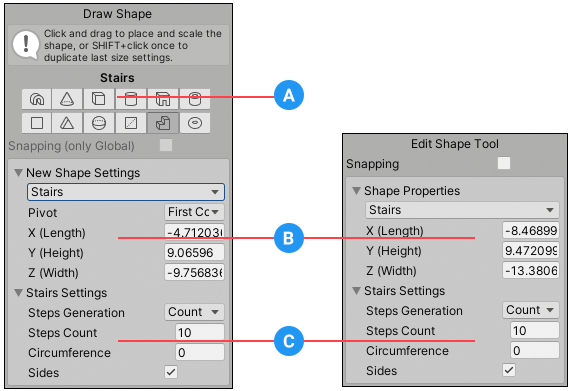
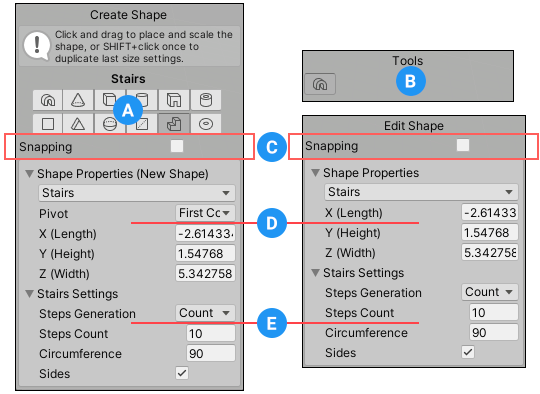
UNI-11308: Edits to Shape tool docs

diff --git a/Documentation~/shape-tool.md b/Documentation~/shape-tool.md
@@ -1,39 +1,41 @@
 # ![Shape Tool icon](images/icons/Panel_Shapes.png) Shape tool
 
-Use the Shape tool to [create new ProBuilder meshes](workflow-create-predefined.md) based on common primitive shapes, such as cylinders, arches, and stairs. When you activate the Shape tool to create a new shape, the **Draw Shape** panel appears in the bottom of the Scene view. You can either draw in the Scene view or set the properties directly in the **Draw Shape** panel to define a bounding box that will hold the new shape. You can also customize any shape-specific settings, and then either exit the tool or create another new shape. 
+Use the Shape tool to [create new ProBuilder Meshes](workflow-create-predefined.md) based on common primitive shapes, such as cylinders, arches, and stairs. When you activate the Shape tool to create a new shape, the **Create Shape** panel appears in the bottom of the Scene view. You can either draw in the Scene view or set the properties directly in the **Create Shape** panel to define a bounding box that will hold the new shape. You can also customize any shape-specific settings, and then either exit the tool or create another new shape. 
 
-> **Tip**: After you create a new shape and exit the tool, you can redefine the bounding box, switch primitive shapes, and change the shape-specific settings when you select the Edit Shape icon ![Edit Shape icon](images/icons/tool-arch.png) from the **Tools** panel. If you made any modifications to the mesh topology (such as [splitting vertices](Vert_Split.md), [connecting edges](Edge_Connect.md), or [extruding faces](Face_Extrude.md)), you must reset the shape to remove all manual changes before you can proceed.
+> **Tip**: After you create a new shape and exit the tool, you can redefine the bounding box, switch primitive shapes, and change the shape-specific settings when you select the Edit Shape icon ![Edit Shape icon](images/icons/tool-arch.png) from the **Tools** panel. If you made any modifications to the Mesh topology (such as [splitting vertices](Vert_Split.md), [connecting edges](Edge_Connect.md), or [extruding faces](Face_Extrude.md)), you must reset the shape to remove all manual changes before you can proceed.
 
-![When you create a new shape, the Draw Shape properties appear. When you edit an existing shape, the Edit Shape properties appear.](images/shape-tool.png) 
+![When you create a new shape, the Create Shape properties appear. When you edit an existing shape, the Edit Shape properties appear.](images/shape-tool.png)
 
-**(A)** Shape icons let you switch the shape's primitive when you are drawing a new shape.
+**(A)** Shape icons let you choose the shape's primitive when you are drawing a new shape.
 
-Enable **Snapping** to align the bounding box to [Unity's grid](https://docs.unity3d.com/Manual/GridSnapping.html) while you are drawing the bounding box's dimensions in the Scene view. This is only available when your [gizmo handle](https://docs.unity3d.com/Manual/PositioningGameObjects.html#GizmoHandlePositions) is set to Global.
+**(B)** The **Tools** panel displays the Edit Shape icon ![Edit Shape icon](images/icons/tool-arch.png) when you have a Shape Mesh selected. You can toggle this icon to turn the editing mode on and off.
 
-**(B)** The **Shape Properties** section lets you select a new shape primitive, define the size of the bounding box, and specify whether to place the pivot at the corner or in the middle of the bounding box when you are drawing a new shape. For details, see [Choosing the shape and size](#ShapeProperties).
+**(C)** The **Snapping** option only appears when you use ProBuilder inside a version of Unity prior to 2021.1. It enables auto-snapping for the Shape tool. For more information, see [Snapping](#Snapping).
 
-**(C)** The **&lt;Shape&gt; settings** section lets you customize the new shape with properties that are specific to each shape. For example, you can change the number of sides (faces) for both cylinders and cones, but for cylinders you can also set the smoothing group and set segment heights for the sides. For details, see [Customizing specific shapes](#ShapeSpecificSettings).
+**(D)** The **Shape Properties** section lets you switch to a new shape primitive and define the size of the bounding box. When you are drawing a new shape, the **Pivot** property lets you specify whether to place the pivot at the corner or in the middle of the bounding box. For details, see [Choosing the shape and size](#ShapeProperties).
+
+**(E)** The **&lt;Shape&gt; settings** section lets you customize the new shape with properties that are specific to each shape. For example, you can change the number of sides (faces) for both cylinders and cones, but for cylinders you can also set the smoothing group and set segment heights for the sides. For details, see [Customizing specific shapes](#ShapeSpecificSettings).
 
 
 
 <a name="ShapeProperties"></a>
 ## Choosing the shape and size  
 
-The properties under the **Shape Properties** section let you choose a shape primitive and define the parameters of the bounding box in which ProBuilder will draw the shape. 
+The properties under the **Shape Properties** section let you choose a shape primitive and define the parameters of the bounding box in which ProBuilder will draw the shape.
 
 
 | **Property:**        | **Description:** |
 | -------------------- | ---------------- |
 | Shape drop-down menu |       Select the shape primitive you want to create. For details, see [Customizing specific shapes](#ShapeSpecificSettings). |
-| **Pivot** | Select whether you want ProBuilder to create the mesh's pivot handle in the **First Corner** of the shape or in its **Center**.<br /><br />**Note**: This property is only available when you are creating the shape. |
+| **Pivot** | Select whether you want ProBuilder to create the Mesh's pivot handle in the **First Corner** of the shape's bounding box or in its **Center**. The "first corner" is where you first clicked in the Scene view to define the bounding box.<br /><br />**Note**: This property is only available when you are creating the shape. |
 | **X (Length)**<br /> **Y (Height)** <br />**Z (Width)** | You can define the bounding box's size with these properties on every shape. When you select a different shape primitive or change any of these properties, ProBuilder automatically transforms the shape to fit the dimensions of the bounding box. |
 
 
 
 
 
-
 <a name="ShapeSpecificSettings"></a>
+
 ## Customizing specific shapes
 
 The following sections contain information about each shape primitive, including a list of any shape-specific properties available:
@@ -42,9 +44,20 @@ The following sections contain information about each shape primitive, including
 |--|--|
 | ![Arch icon](images/icons/tool-arch.png) [Arch](Arch.md) shape primitive<br />![Cone icon](images/icons/tool-cone.png) [Cone](Cone.md) shape primitive<br />![Cube icon](images/icons/tool-cube.png) [Cube](Cube.md) shape primitive<br />![Cylinder icon](images/icons/tool-cylinder.png) [Cylinder](Cylinder.md) shape primitive<br />![Door icon](images/icons/tool-door.png) [Door](Door.md) shape primitive<br />![Pipe icon](images/icons/tool-pipe.png) [Pipe](Pipe.md) shape primitive | ![Plane icon](images/icons/tool-plane.png) [Plane](Plane.md) shape primitive<br />![Prism icon](images/icons/tool-prism.png) [Prism](Prism.md) shape primitive<br />![Sphere icon](images/icons/tool-sphere.png) [Sphere](Sphere.md) shape primitive<br />![Sprite icon](images/icons/tool-sprite.png) [Sprite](Sprite.md) shape primitive<br />![Stairs icon](images/icons/tool-stairs.png) [Stairs](Stair.md) shape primitive<br />![Torus icon](images/icons/tool-torus.png) [Torus](Torus.md) shape primitive |
 
-ProBuilder meshes are similar to other GameObjects in Unity in terms of how they interact with other GameObjects and respond to Physics in the Scene. However, you can use [ProBuilder editing features](workflow-edit) to customize and deform the mesh topology after you create them. 
+ProBuilder Meshes are similar to other GameObjects in Unity in terms of how they interact with other GameObjects and respond to Physics in the Scene. However, you can use [ProBuilder editing features](workflow-edit) to customize and deform the Mesh topology after you create them. 
 
 
 
+<a name="Snapping"></a>
 
+## Snapping
+
+To set a more accurate size, snap the bounding box to [Unity's grid](https://docs.unity3d.com/Manual/GridSnapping.html) while you draw or move the preview shape in the Scene view. To do this, enable auto-snapping with the Shape tool by using one of the following methods that matches the version of the Editor you are using:
+
+* **Version 2021.1 and later**: [Activate Unity auto-snapping](https://docs.unity3d.com/Manual/GridSnapping.html#grid-snap) in the Editor. The **Snapping** option is not available because ProBuilder uses the Editor's auto-snapping setting.
+* **Versions 2019.4 through 2020.3**: Enable the **Snapping** option. ProBuilder ignores Unity's auto-snapping setting in these versions of the Unity Editor.
+
+> **Note**: Auto-snapping is only available when your [gizmo handle](https://docs.unity3d.com/Manual/PositioningGameObjects.html#GizmoHandlePositions) is set to **Global** in any version of Unity.
+
+Regardless of whether auto-snapping is enabled, you can hold the **Ctrl/Cmd** key while drawing or positioning the new shape to move by increments. To set the size of these increments, use the **Increment Snap** property on the [Grid and Snap](https://docs.unity3d.com/Manual/GridSnapping.html#grid-and-snap) window.
 

diff --git a/Documentation~/workflow-create-predefined.md b/Documentation~/workflow-create-predefined.md
@@ -1,35 +1,44 @@
 # Creating a pre-defined ProBuilder shape
 
+Use the Shape tool to create a ProBuilder Mesh from a predefined shape primitive. ProBuilder builds these Mesh shapes inside a bounding box that you define:
+
+![Previews of various shapes inside the same bounding box](images/shapes-bboxes.png)
+
+The bounding box defines the size of each shape primitive using x, y, and z values relative to the "first corner" of the box: that is, the first click you make in the Scene view. If you switch between shape primitives when drawing or editing a shape, ProBuilder instantly adjusts the dimensions of the shape to fit within the bounding box.
+
+To define the bounding box, you can either draw it in the Scene view or set the dimensions on the **Create Shape** panel and then click in the Scene view to tell ProBuilder where you want to place the new shape. ProBuilder always builds the new shape on top of any existing Mesh in the Scene or, if there is no Mesh under your mouse, on the plane defined in the [settings for Unity's Grid snapping](https://docs.unity3d.com/Manual/GridSnapping.html).
+
 To create a Mesh from a predefined shape:  
 
 1. Open the ProBuilder window (in Unity's top menu: **Tools** > **ProBuilder window**).
 
   The [Edit Mode toolbar](overview-ui.md#edit-mode-toolbar) and the [ProBuilder toolbar](toolbar.md) appear.
 
-2. From the ProBuilder toolbar, click the **New Shape** (![Shape Tool icon](images/icons/Panel_Shapes.png)) tool. The [Draw Shape](shape-tool.md) panel appears in the bottom of the Scene view and in [Text mode](customizing.md#text-vs-icon-mode), the **New Shape** button is highlighted.
+2. From the ProBuilder toolbar, click the **New Shape** (![Shape Tool icon](images/icons/Panel_Shapes.png)) tool. The [Create Shape](shape-tool.md) panel appears in the bottom of the Scene view and the **New Shape** text button is highlighted.
 
-  > **Tip:** You can also use the **Ctrl/Cmd+Shift+K** hotkey to activate the Shape tool and leave the panel open, or use the menu (**Tools** > **ProBuilder** > **Editors** > **Open Shape Editor Menu Item**).
+  > **Tip:** You can also use the **Ctrl/Cmd+Shift+K** hotkey to activate the Shape tool and leave the panel open, or use the menu (**Tools** > **ProBuilder** > **Editors** > **New Shape**).
 
-  <span style="color:blue">**@DEV**: When you use the **Ctrl/Cmd+Shift+K** hotkey to activate the Shape tool, the panel stays open but the tool doesn't seem to still be active. If I activate the Edit Shape tool and do some stuff and then click the icon again to exit, the Draw Shape panel reappears. Switching back and forth between the create and edit states can also lead to tons of errors when the Shape panel is still visible, but it's hard to reproduce the error. </span>
+3. From the top of the **Create Shape** panel, choose the icon that matches the shape you'd like to create. Any shape-specific properties appear under the **&lt;Shape&gt; Settings** section at the bottom.
 
-3. Choose the shape you'd like to create either from the shape icons or the drop-down menu. Any shape-specific properties appear under the **&lt;Shape&gt; Settings** section at the bottom.
+4. Set the shape-specific options (width, height, radius, number of stairs) according to the type of shape. For example, the [Stairs](Stair.md) shape lets you customize the height of the steps, how curved to make them, and whether to create faces for the sides.
 
-4. Set the shape-specific options (width, height, radius, number of stairs) according to the type of shape. For example, the [Stairs](Stair.md) shape lets you customize the height of the steps, how curved to make them, and whether to create faces for the sides. 
+  ![Preview of the stairs inside the bounding box](images/Example_ShapeToolsWithCurvedStair2.png)
 
-	![Preview of the stairs inside the bounding box](images/Example_ShapeToolsWithCurvedStair2.png) 
+5. While the Shape tool is active, you can't use the transform tools, but you can use the camera to orbit around the new shape and zoom in and out.
 
-5. While the Shape tool is active, you cannot use the transform tools, but you can use the camera to orbit around the new shape and zoom in and out. 
+6. In the Scene view, click and hold the left mouse button to draw the base of the bounding box (along the x-axis and the z-axis) and then release the mouse button to validate the base. Move the mouse up (or down) along the y-axis to draw the height, and then click to finalize the new Mesh.
 
-6. In the Scene view, click and hold as you move to draw the base of the bounding box (along the x-axis and the z-axis) and then, if you are creating a 3D shape, move up (without letting go) along the y-axis to draw the height. As soon as you let go, ProBuilder creates the new mesh.
+  > **Tip**: Alternatively, you can set all the properties on the **Create Shape** panel, including the bounding-box dimensions, and then hover over the Scene view while holding Shift to see a preview of the Mesh. When you are satisfied with how it looks and where it appears in the scene, click in the Scene view to finish creating the new Mesh.
+  >
+  > **Note**: If you draw the shape on an axis-aligned plane, enable auto-snapping to set a more accurate size on the defined shape than drawing freehand. Alternatively, you can move the shape by increments defined by the [Increment Snap](https://docs.unity3d.com/Manual/GridSnapping.html#grid-and-snap) value instead. For more information, see [Snapping](shape-tool.md#Snapping).
 
-	> **Tip**: Alternatively, you can set all the properties on the **Draw Shape** panel, including the bounding-box dimensions, and then hover over the Scene view while holding Shift to see a preview of the mesh. When you are satisfied with how it looks and where it appears in the scene, click in the Scene view to finish creating the new mesh.
+7. To modify the last shape you created, you can change the properties on the **Create Shape** panel.
 
-7. To create copies of the new mesh you defined, hold Shift to see a preview of the mesh while moving in the Scene view, and then click to build the mesh copy at that spot. You can do this as many times as you like until you exit the tool.
+8. To create copies of the last shape you created, hold Shift to see a preview of the Mesh while moving in the Scene view, and then click to build the Mesh copy at that spot. You can do this as many times as you like until you exit the tool.
 
-8. To exit the tool, click the **New Shape** button or select Esc. 
+9. To exit the tool, click the **New Shape** button again or select Esc.
 
-	**Note**: If you decide later that you want to switch primitive shapes, change the size of the bounding box, or modify any of the shape-specific properties, select the Edit Shape icon ![Edit Shape icon](images/icons/tool-arch.png) from the **Tools** panel. 
+  **Note**: If you decide later that you want to switch primitive shapes, change the size of the bounding box, or modify any of the shape-specific properties, select the Edit Shape icon ![Edit Shape icon](images/icons/tool-arch.png) from the **Tools** panel.
 
 
-Now that you have created a Mesh shape, you can use any of the [ProBuilder editing tools](workflow-edit.md) to fine-tune or customize that shape further. For example, you can build a plain cube and then use the **Extrude Face** and **Delete Face** tools to create windows and doorways to make a house.
-
+After you create a Mesh shape, you can use any of the [ProBuilder editing tools](workflow-edit.md) to fine-tune or customize that shape further. For example, you can build a plain cube and then use the **Extrude Face** and **Delete Face** tools to create windows and doorways to make a house.

diff --git a/Documentation~/cut-tool.md b/Documentation~/cut-tool.md
@@ -1,36 +1,38 @@
 # ![Cut Tool icon](images/icons/Cut_Tool.png) Cut tool
 
-Use the Cut tool to easily subdivide mesh faces with precision. To cut out a shape on a mesh, you activate the Cut tool which lets you define the cutout shape with points. The cutout shape becomes a new face on the mesh.
+Use the Cut tool to easily subdivide Mesh faces with precision. To cut out a shape on a Mesh, you activate the Cut tool which lets you define the cutout shape with points. The cutout shape becomes a new face on the Mesh.
 
-To create a new face on an existing mesh face:
+To create a new face on an existing Mesh face:
 
 1. Open the ProBuilder window (in Unity's top menu: **Tools** > **ProBuilder window**).
 
-	The [Edit Mode toolbar](overview-ui.md#edit-mode-toolbar) and the [ProBuilder toolbar](toolbar.md) appear. 
+	The [Edit Mode toolbar](overview-ui.md#edit-mode-toolbar) and the [ProBuilder toolbar](toolbar.md) appear.
 
 1. Switch to one of the element [editing modes](modes.md).
 
-2. In the ProBuilder toolbar, click **Cut**. The **Cut Tool** panel appears at the bottom of the Scene view. If the ProBuilder toolbar is using [Text mode](customizing.md#text-vs-icon-mode), the button text background becomes red.
+2. In the ProBuilder toolbar, click the **Cut Tool** button. The **Cut Settings** panel appears at the bottom of the Scene view with a **Complete** button and a **Cancel** button. If the ProBuilder toolbar is using [Text mode](customizing.md#text-vs-icon-mode), the button text background becomes red.
 
-3. To control how close to any nearby edges you can place, use the options on the [Cut Tool panel](#cut-tool_panel).
+3. To control snapping to nearby edges and vertices, use the options on the [Cut Settings panel](#cut-tool_panel).
 
-5. Click on the mesh face where you want the vertices for the new face to be. ProBuilder creates the cutout shape based on the edges you draw with these points. For example, you can specify three points on the mesh to define a triangular shape and the fourth to close it:
+5. Click on the Mesh face where you want the vertices for the new face to be. ProBuilder creates the cutout shape based on the edges you draw with these points. For example, you can specify three points on the Mesh to define a triangular shape and the fourth to close it:
 
-  ![Example of a triangular cutout on a face](images/cut-tool-example.png)
+	![Example of a triangular cutout on a face](images/cut-tool-example.png)
 
   > **Tip**: ProBuilder displays red edges as a visual warning if your points make an invalid edge or face. When this happens, undo adding each point until all the edges become blue again.
 
-  As soon as you return to the first point and click it again (such as the fourth point in the triangle example), the cut is complete and you can either exit the tool or start another cut. 
+	As soon as you return to the first point and click it again (such as the fourth point in the triangle example), the cut is complete and the new face appears selected in the Scene view. Now you can either exit the tool or start another cut.
 
-6. To start another cut, click the **Cut** button. The new face appears selected in the Scene view and the **Cut Tool** panel now displays a **Start** button.
+	**Note**: If nothing happened when you returned to the first point and clicked it again or clicked the **Complete** button, it is probably because the points you defined do not create a valid edge or face. For example, if the tool detected only one point, that does not make a valid edge. You can define more points, undo the previous points, or click the **Cancel** button to cancel the operation and start again.
 
-  **Note**: If you click the **Cut** button and nothing happens, it is probably because the points you defined do not create a valid edge or face. For example, if the tool detected only one point, that does not make a valid edge. You can define more points or exit the Cut tool to cancel the operation.
+6. To start another cut, click the **Start** button. The **Cut Settings** panel displays a **Complete** button and a **Cancel** button again.
 
-7. If you want to cut out another face on the same mesh, click the **Start** button.
+7. To exit the Cut tool, you can:
 
-8. To exit the Cut tool, select the Esc key or click **Cut Tool** on the ProBuilder toolbar.
+	* Click the **Quit** button on the **Cut Settings** panel.
+	* Select the Esc key.
+	* Click the **Cut Tool** button on the ProBuilder toolbar again.
 
-	**Tip**: When you create a new face, the Cut tool creates extra edges in order to strengthen the geometry. Avoid merging the surrounding faces to remove the extra edges, because this could result in degenerated faces and broken geometry. 
+	**Tip**: When you create a new face, the Cut tool creates extra edges in order to strengthen the geometry. Avoid merging the surrounding faces to remove the extra edges, because this could result in degenerated faces and broken geometry.
 
 	![After you cut a face, extra edges secure the new face's integrity. Removing those images makes the new face unstable](images/cut-tool-nomerge.png)
 
@@ -38,17 +40,20 @@ To create a new face on an existing mesh face:
 
 <a name="cut-tool_panel"></a>
 
-## Cut Tool panel
+## Cut Settings panel
 
 When ProBuilder enters Cut mode, the following panel appears at the bottom of the Scene view:
 
-![Extra options for the Cut Tool](images/Cut_Tool-panel.png) 
+![Extra options for the Cut Tool](images/Cut_Tool-panel.png)
 
 Enable the **Snap to existing edges and vertices** option to snap the points you draw on the target face to any nearby edges and vertices. This makes it easier to place points on the edges or vertices of the face.
 
 When snapping is enabled, the **Snapping distance** defines what happens as you approach a face border. By default, if you click within 0.1 units of an edge or vertex, the Cut tool adds your point on that border instead of adding a floating point directly on the face.
 
-When you activate the Cut tool, the **Cut Tool** panel displays a **Cut** button. As soon as you complete the cut successfully, the **Start** button appears because the Cut tool is modal and you have the choice to either define another cutout or explicitly exit the tool:
+When you activate the Cut tool, the **Cut Settings** panel displays a **Complete** button and a **Cancel** button. As soon as you complete the cut successfully, the **Start** button appears because the Cut tool is modal and you have the choice to either define another cutout or explicitly exit the tool:
 
-* When you are ready to define points for a new cutout, click the **Start** button and draw more points on the mesh.
-* When you want to exit the tool, click an action on the ProBuilder toolbar or select Esc.
+![You can choose to start another cut or exit the Cut Tool](images/Cut_Tool-panel2.png)
+
+When you are ready to define points for a new cutout, click the **Start** button and draw more points on the Mesh.
+
+When you want to exit the tool, click the **Quit** button, select the Esc key, or click the **Cut Tool** button on the ProBuilder toolbar again.

diff --git a/Documentation~/workflow-edit-tasks.md b/Documentation~/workflow-edit-tasks.md
@@ -4,7 +4,7 @@ This page describes some of the most common ways you can use the ProBuilder tool
 
 ## General modeling tasks
 
-- **Selecting**: Selecting elements is the first step you take when you want to change your mesh. ProBuilder provides a whole range of [selection actions](selection-tools.md) that make it easier to target the elements you need to access. As a shortcut, when working in the Face editing mode, you can double-click any face to select all faces on the Mesh.
+- **Selecting**: Selecting elements is the first step you take when you want to change your Mesh. ProBuilder provides a whole range of [selection actions](selection-tools.md) that make it easier to target the elements you need to access. As a shortcut, when working in the Face editing mode, you can double-click any face to select all faces on the Mesh.
 
 - **Transforming:** You can translate, rotate, and scale geometry elements to change the shape of a basic Mesh. For example, if you use the basic Stairs shape but you want to give it a crooked look, you could move some edges or vertices.
 
@@ -14,7 +14,7 @@ This page describes some of the most common ways you can use the ProBuilder tool
 
 - **Insetting**: "Insetting" refers to dragging the edges of the face inside the Mesh. To do this, select a face, hold Shift, and use the Scale controls. Then drag in the opposite direction without the Shift modifier to complete the [inset](Face_Inset.md).
 
-- **Subdividing edges**: If you have an irregular shape (for example, a wall with a peaked top) and you need to split it into four faces (for example, to insert windows), you can [insert an edge loop](Edge_InsertLoop.md) to split the whole wall into two mirrored pieces, and then select only those edges along the front and back of the wall. 
+- **Subdividing edges**: If you have an irregular shape (for example, a wall with a peaked top) and you need to split it into four faces (for example, to insert windows), you can [insert an edge loop](Edge_InsertLoop.md) to split the whole wall into two mirrored pieces, and then select only those edges along the front and back of the wall.
 
 	[Subdividing](Edge_Subdivide.md) the two selected edges then creates a third vertex, which you can connect up with the vertices at the base of the peaked section to create four perfectly even sections on the front and the back. This approach is much easier than trying to subdivide a five-sided polygon.
 
@@ -30,25 +30,25 @@ This page describes some of the most common ways you can use the ProBuilder tool
 
 ## Building-specific tasks
 
-- **Make a hole** (for a window or door): There are many methods you can use to do this, but some work better depending on what you are working on. For example, in an even and rectangular wall, such as on the first floor of a house, you could use this strategy: 
+- **Make a hole** (for a window or door): There are many methods you can use to do this, but some work better depending on what you are working on. For example, in an even and rectangular wall, such as on the first floor of a house, you could use this strategy:
 
-  - Select the wall's two faces (back and front), then **Shift**+**Scale** to create an [inset](Face_Inset.md) horizontally, and **Scale** vertically to make it an even border. 
-  - Press **Backspace** to delete the insets. 
+  - Select the wall's two faces (back and front), then **Shift**+**Scale** to create an [inset](Face_Inset.md) horizontally, and **Scale** vertically to make it an even border.
+  - Press **Backspace** to delete the insets.
 
-  On the other hand, if you are working on an uneven or multi-sided wall, such as a castle or church wall, this strategy is preferable: 
+  On the other hand, if you are working on an uneven or multi-sided wall, such as a castle or church wall, this strategy is preferable:
 
-  * Use the [Insert Edge Loop](Edge_InsertLoop.md) action to create two vertical edges. Do the same on the horizontal plane (two for a window, one for a door). 
-  * Adjust the loops so that the resulting hole is the right size and location for a window or a door. 
+  * Use the [Insert Edge Loop](Edge_InsertLoop.md) action to create two vertical edges. Do the same on the horizontal plane (two for a window, one for a door).
+  * Adjust the loops so that the resulting hole is the right size and location for a window or a door.
   * Select the face of the hole and press **Backspace**. If necessary, from the other side of the wall, [delete the face](Face_Delete.md) on the other side.  
 
   Whichever strategy you start with, you need to weld the newly exposed edges and vertices together:
 
-  * Select all the edges on one side only of the hole and use **Shift**+**Translate** until they connect up with the edge on the other side. 
+  * Select all the edges on one side only of the hole and use **Shift**+**Translate** until they connect up with the edge on the other side.
   * Then [weld the vertices](Vert_Weld.md) together where the edges meet.
 
 - **Add a door**: follow the *Make a hole* procedure, but to start, create a [Door shape](Door.md). Fit the hole to match, [merge the two objects](Object_Merge.md), and then [weld the door to the frame](Vert_Weld.md) you created.
 
-- **Make a tunnel with normals on both the inside and outside**: duplicate the tunnel object and scale it slightly so that you [bridge the edges](Edge_Bridge.md). Next, [flip the normals](Object_FlipNormals.md) on the smaller one. 
+- **Make a tunnel with normals on both the inside and outside**: duplicate the tunnel object and scale it slightly so that you [bridge the edges](Edge_Bridge.md). Next, [flip the normals](Object_FlipNormals.md) on the smaller one.
 
 - **Make a building with towers**: start with a [cube](Cube.md) and [inset](Face_Inset.md) on the top face, then [extrude](Face_Extrude.md) upward. Repeat this as many times as you like. You could also [subdivide the top face](Face_Subdivide.md) to create multiple extrusions.
 

diff --git a/Documentation~/tools.md b/Documentation~/tools.md
@@ -1,10 +1,12 @@
 # Tools vs. actions
 
-Tools provide a modal environment where you can perform complex tasks, such as creating new meshes or defining precise cuts on an existing mesh. For example, when you create meshes, you can use the [New Shape](shape-tool.md) tool or the [Poly Shape](polyshape.md) tool. Both of these are modal tools so that you can define its dimensions and set any shape-specific properties available before ProBuilder builds it. The [Cut](cut-tool.md) tool is also modal because you have to define several points on a mesh where you want to create a new edge before ProBuilder creates the new face. 
+Tools provide a modal environment where you can perform complex tasks, such as creating new Meshes or defining precise cuts on an existing Mesh. For example, when you create Meshes, you can use the [New Shape](shape-tool.md) tool or the [Poly Shape](polyshape.md) tool. Both of these are modal tools so that you can define dimensions and set any shape-specific properties available before ProBuilder builds the final Mesh. The [Cut](cut-tool.md) tool is also modal because you have to define several points on a Mesh where you want to create a new edge before ProBuilder creates the new face. 
+
+> **Tip**: When you activate a tool, its text button is highlighted on the ProBuilder toolbar. You can click the button again to exit the tool.
 
 Actions are immediate changes, such as selecting all faces with a specific color or splitting a single edge. As soon as you initiate an action, ProBuilder performs that action. For example, [Grow Selection](Selection_Grow.md) is an action that you initiate from the menu, toolbar button, or hotkey and it finishes immediately. You can modify its options to change the behavior of the action, but the options appear in a non-modal window.
 
-Actions are often only available in specific [Edit modes](modes.md), whereas tools are generally available in all modes. For example, you can launch the Cut tool in every mode except the Object mode and it behaves exactly the same, but most actions are specific to the selected element and behave differently, such as subdividing an element: 
+Actions are often only available in specific [Edit modes](modes.md), whereas tools are generally available in all modes. For example, you can launch the Cut tool in every mode except the Object mode and it behaves exactly the same, but most actions are specific to the selected element and behave differently, such as subdividing an element:
 
 * [Subdivide Edge](Edge_Subdivide.md) divides the selected edge(s) into multiple edges.
 * [Subdivide Face](Face_Subdivide) adds a vertex at the center of each selected face and connects them in the center.
@@ -13,5 +15,3 @@ Actions are often only available in specific [Edit modes](modes.md), whereas too
 For a list of tools available in this version of ProBuilder, see [Tools reference](ref_tools.md).
 
 For a list of actions available in this version of ProBuilder, see [Action reference](ref_action.md).
-
-

diff --git a/Documentation~/ref_tools.md b/Documentation~/ref_tools.md
@@ -8,11 +8,11 @@ Some tools are available from the [Tools panel](https://docs.unity3d.com/Manual/
 
 This table lists all the tools available in ProBuilder:
 
-| **Tool:**                                     | **Description:**                                             |
-| --------------------------------------------- | ------------------------------------------------------------ |
-| [Shape](shape-tool.md) tool                   | Creates a new mesh with the Shape component, which defines the mesh's shape primitive. You define the same bounding box for all shape primitives. <br /><br />**Tip**: To modify the primitive or bounding box after creation, select the mesh and then click the![img](images/icons/tlbx-icon-shape.png) Edit Shape button on the **Tools** panel in the Scene view. |
-| [Poly Shape](polyshape.md) tool               | Creates a new mesh with the Poly Shape component.<br /><br />**Tip**: To modify the original after creation, select the mesh and then click the ![](images/icons/tlbx-icon-polyshape.png) Edit Poly Shape button on the **Tools** panel in the Scene view. |
-| [Cut](cut-tool.md) tool                       | Cuts a sub-face into an existing mesh face. You determine the shape of the new face by defining points on the mesh to create the edges of the new face. <br /><br />You can use this tool on any face, regardless of whether you created the mesh with the [New Shape](shape-tool.md) tool, the [Poly Shape](polyshape.md) tool, or by [probuilderizing](Object_ProBuilderize.md) a Unity mesh. |
+| **Tool:**                       | **Description:**                                             |
+| ------------------------------- | ------------------------------------------------------------ |
+| [Shape](shape-tool.md) tool     | Creates a new Mesh with the Shape component, which defines the Mesh's shape primitive. You define the same bounding box for all shape primitives. <br /><br />**Tip**: To modify the primitive or bounding box after creation, select the Mesh and then click the![img](images/icons/tlbx-icon-shape.png) Edit Shape icon on the **Tools** panel in the Scene view. |
+| [Poly Shape](polyshape.md) tool | Creates a new Mesh with the Poly Shape component.<br /><br />**Tip**: To modify the original after creation, select the Mesh and then click the ![](images/icons/tlbx-icon-polyshape.png) Edit Poly Shape button on the **Tools** panel in the Scene view. |
+| [Cut](cut-tool.md) tool         | Cuts a sub-face into an existing Mesh face. You determine the shape of the new face by defining points on the Mesh to create the edges of the new face. <br /><br />You can use this tool on any face, regardless of whether you created the Mesh with the [New Shape](shape-tool.md) tool, the [Poly Shape](polyshape.md) tool, or by [probuilderizing](Object_ProBuilderize.md) a Unity Mesh. |
 
 
 > **Note:** For documentation on the [Bezier Shape](bezier.md) tool, see the [Experimental features](experimental.md) section of the documentation.

diff --git a/Documentation~/workflow-create.md b/Documentation~/workflow-create.md
@@ -6,7 +6,12 @@ The most common approach is to [build a predefined shape](workflow-create-predef
 
 ![Mesh shape types](images/ShapeToolTypes.png) 
 
-To create predefined shapes, you draw or define a bounding box with the Shape tool. Then you can choose a primitive shape and customize it where possible with shape-specific parameters. For example, the cube shape doesn't have any shape-specific parameters, but the stairs shape lets you set the curvature, the number of steps, and whether to build sides.
+To create predefined shapes, you can use either of the following methods with the Shape tool:
+
+* Draw a bounding box in the Scene view. Then you can choose a primitive shape and customize it where possible with shape-specific parameters.
+* Define the dimensions of the shape's bounding box on the **Create Shape** panel and customize it where possible with shape-specific parameters. Then **Shift**+click in the Scene view where you want ProBuilder to draw it.
+
+For example, the cube shape doesn't have any shape-specific parameters, but the stairs shape lets you set the curvature, the number of steps, and whether to build sides.
 
 ![Shape Tool Example](images/Example_ShapeToolsWithCurvedStair.png)
 
@@ -14,7 +19,7 @@ If you need to make a Mesh shaped unlike any of the predefined shapes, you have 
 
 - You can use the [Poly Shape tool](polyshape.md) to create a custom 2-dimensional shape and then extrude that shape into a 3-dimensional Mesh. This is a good strategy for quickly building an irregular structure, like a medieval church or a star-shaped building.
 - You can use the [experimental Bezier tool](bezier.md) to define a bezier curve around which ProBuilder extrudes a Mesh. For example, you can use this tool to create tunnels with lots of twists and turns.
-- You can apply a Boolean operation on two or more Mesh objects to create a new object. You can choose to create just the difference between the two (Intersection), or everything but the difference between the two (Subtraction), or one big Mesh that encompasses the two original Meshes plus the space in between them (Union).
+- You can apply an [experimental Boolean operation](boolean.md) on two or more Mesh objects to create a new object. You can choose to create just the difference between the two (Intersection), or everything but the difference between the two (Subtraction), or one big Mesh that encompasses the two original Meshes plus the space in between them (Union).
 
 Whichever method you use to create your Mesh, you can edit it using any of the [ProBuilder editing features](workflow-edit.md), [apply vertex colors](workflow-vertexcolors.md), [smooth its sharp edges](workflow-edit-smoothing.md), and [apply Materials and Textures](workflow-materials.md).
 

diff --git a/Documentation~/vertex-positions.md b/Documentation~/vertex-positions.md
@@ -8,7 +8,7 @@ Use the **Positions Editor** window to enter specific translation coordinates to
 
 By default, Unity uses absolute coordinates to define positions, but you can click the **World Space** button in the top right corner to use relative coordinates instead (that is, relative to the **Model Space**).
 
-The index of each vertex appears on the left, followed by the **X**, **Y**, and **Z** values that define its position. You can use this window as an alternative to modifying vertex positions with the transform tools. For example, to view or modify the vertex positions on any selected ProBuilder mesh:
+The index of each vertex appears on the left, followed by the **X**, **Y**, and **Z** values that define its position. You can use this window as an alternative to modifying vertex positions with the transform tools. For example, to view or modify the vertex positions on any selected ProBuilder Mesh:
 
 1. Click one of the [element editing mode](modes.md) buttons on the Edit modes toolbar.
 
@@ -16,11 +16,8 @@ The index of each vertex appears on the left, followed by the **X**, **Y**, and 
 
 6. Go to **Tools** > **ProBuilder** > **Editors** and select **Open Vertex Position Editor**.
 
-	You can identify the vertices that appear in the **Positions Editor** by the index number that appears on the shape in the Scene view. 
+	You can identify the vertices that appear in the **Positions Editor** by the index number that appears on the shape in the Scene view.
 
 	![Editing vertex positions in Vertex (A), Edge (B), and Face (C) Editing modes](images/vertex-positions_example.png)
 
 7. Set new values for the coordinates you want to modify. ProBuilder immediately updates the positions.
-
-
-

diff --git a/Documentation~/overview-ui.md b/Documentation~/overview-ui.md
@@ -64,7 +64,7 @@ These component sections appear in the Inspector when you create a Mesh with one
 
 When you first activate a creation tool, Unity adds these components to the new GameObject. They expose specific properties defined in the corresponding scripts which help define the topology. After you create the new Mesh, you can re-activate the tool for the same Mesh and change these properties to modify the Mesh's shape. 
 
-**Note**: When you re-activate one of these tools, you lose any modifications you made to the Mesh through an action or through the Cut tool. For example, imagine you create a new Poly Shape with five points, and then extrude one of the faces. Next, you decide to remove one of the points, so you enter Poly Shape editing mode again. The extrusion disappears as soon as you re-enter Poly Shape editing mode.
+**Note**: When you re-activate one of these tools, you lose any modifications you made to the Mesh through an action or through the [Cut](cut-tool.md) tool. For example, imagine you create a new Poly Shape with five points, and then extrude one of the faces. Next, you decide to remove one of the points, so you enter Poly Shape editing mode again. The extrusion disappears as soon as you re-enter Poly Shape editing mode.
 
 In addition to these creation tool components, every ProBuilder object has a [Pro Builder Mesh](ProBuilderMesh.md) component. It lets you customize lightmap UV parameters for each object. When you [ProBuilderize](Object_ProBuilderize.md) a Mesh that was either exported into Unity or created as a regular primitive Unity Mesh, Unity adds this component to the Mesh.
 

diff --git a/Documentation~/tool-panels.md b/Documentation~/tool-panels.md
@@ -12,19 +12,19 @@ For more information, see [Shape tool](shape-tool.md).
 
 ## ![Poly Shape Tool icon](images/icons/NewPolyShape.png) New Poly Shape
 
-Use the **Poly Shape** tool to create a custom 2-dimensional shape and then extrude that shape to create a 3-dimensional mesh.
+Use the **Poly Shape** tool to create a custom 2-dimensional shape and then extrude that shape to create a 3-dimensional Mesh.
 
 For more information, see [Poly Shape tool](polyshape.md).
 
 ## ![Bezier Shape icon](images/icons/NewBezierSpline.png) New Bezier Shape
 
-Use the **Bezier Shape** tool to define a bezier curve around which ProBuilder extrudes a mesh.
+Use the **Bezier Shape** tool to define a bezier curve around which ProBuilder extrudes a Mesh.
 
 > ***Warning:*** Bezier shapes are experimental, meaning that they are still under development, and might reduce ProBuilder's stability. Please use with caution.
 
 For more information, see [Bezier Shape tool](bezier.md).
 
-## ![Smoothing Groups icon](images/icons/Panel_Smoothing.png) Smoothing 
+## ![Smoothing Groups icon](images/icons/Panel_Smoothing.png) Smoothing
 
 Use the **Smooth Group Editor** window to create a smooth and rounded look.
 
@@ -47,4 +47,3 @@ For more information, see the [Material Editor](material-tools.md) window refere
 Use the **UV Editor** window to apply textures to objects or faces. You can also use it to automatically or manually wrap and unwrap textures.
 
 For more information, see the [UV Editor](uv-editor.md) window reference.
-

diff --git a/Documentation~/Arch.md b/Documentation~/Arch.md
@@ -22,3 +22,4 @@ You can customize the shape of an arch with these shape-specific properties:
 | __Sides Count__ | Set the number of sides for the arch. The more sides you use (relative to the size of the __Radius__), the smoother the arch becomes, so the closer you get to a semi-circle. Conversely, if you this value to 2, the arch turns into a peaked roof, regardless of the radius. The default value is 5. Valid values range from 3 to 200. |
 | __Arch Circumference__ | Set the circumference of the arch in degrees. For example, an arch of 360 degrees is circular. The default value is 180. Valid values range from 1 to 360. |
 | __End Caps__ | Enable this option to create faces for the ends of the arch (default). <br /><br />Disable this option if you know the ends are not visible to the camera (this is an [optimization strategy](workflow-edit-tips.md) that reduces the number of polygons that Unity has to render). |
+| **Smooth** | Enable this option to smooth the edges of the polygons. This property is enabled by default. |

diff --git a/Documentation~/Cylinder.md b/Documentation~/Cylinder.md
@@ -18,6 +18,5 @@ You can customize the shape of a cylinder with these shape-specific properties:
 |:-- |:-- |
 | __Sides Count__ | Set the number of sides for the cylinder. The more sides you use, the smoother the sides of the cylinder become. The default value is 6. Valid values range from 4 to 64. |
 | __Height Cuts__ | Set the number of divisions to use for the height of the cylinder. For example, a value of 3 produces 4 faces on every side of the cylinder. The default value is 0. |
-| __Smoothing Group__ | Increase this value to make the edges of the polygons smoother. The default value is -1. |
+| __Smooth__ | Enable this option to smooth the edges of the polygons. This property is enabled by default. |
 
-<span style="color:blue">**@DEV**: How does the Smooth value work? I tried different values (in smaller increments) and nothing seemed to make a difference. At first I though this was related to the Smooth Group Editor, but I tried to set up smoothing groups and it didn't seem to work. </span>
